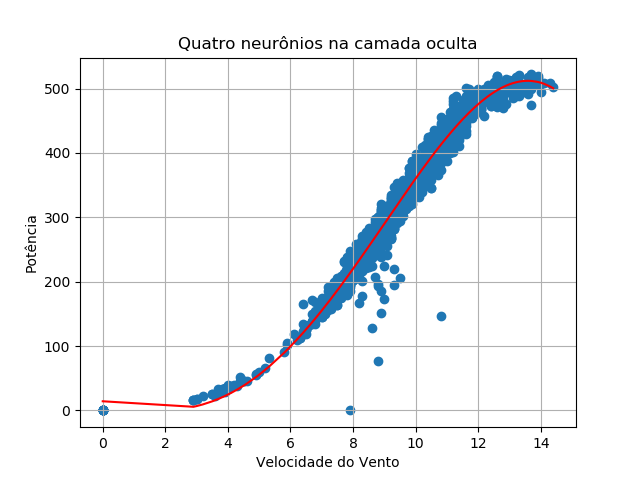
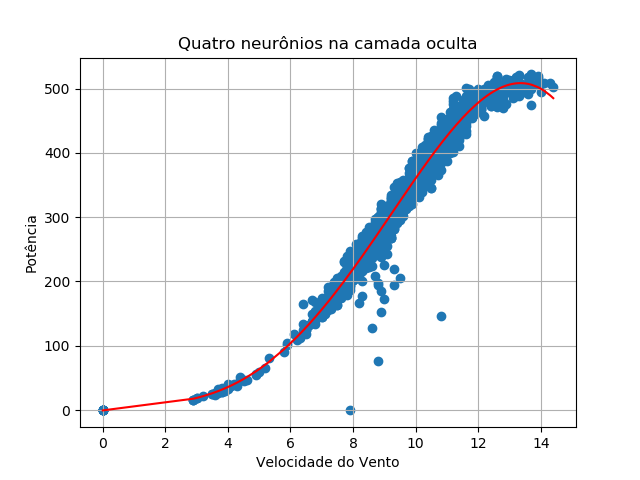
concerto de detalhes

diff --git a/Trabalho 02/redeELM.py b/Trabalho 02/redeELM.py
@@ -103,10 +103,10 @@ M3 = np.matmul(aux, aux2)
 # vetor final com os resultados da camasda de saída
 y3 = np.matmul(M3,Z3)
 
-#---------------------------------- 4 NEURÔNIOs
+#---------------------------------- 4 NEURÔNIOS
 
 # vetor de pesos da camada oculta
-W4 = np.random.rand(q4, p+1) # matriz de pesos onde cada elemento varia num intervalo de (0,1) em uma distribuição uniforme
+W4 = np.random.rand(q4, p+1) * 0.1 # matriz de pesos onde cada elemento varia num intervalo de (0,1) em uma distribuição uniforme
 
 # ativações dos neurônios da camada oculta
 u4 = np.matmul(W4, x_treino)
@@ -128,7 +128,7 @@ aux2 = np.linalg.inv(np.matmul(Z4, Z4.transpose()))
 M4 = np.matmul(aux, aux2)
 
 # vetor final com os resultados da camasda de saída
-y4 = np.matmul(M3,Z3)
+y4 = np.matmul(M4,Z4)
 
 #---------------------------------- Cálculo de R^2
 print('--> Cálculo do coeficiente de determinação \n--> q é o número de neurônios na camada o culta')
